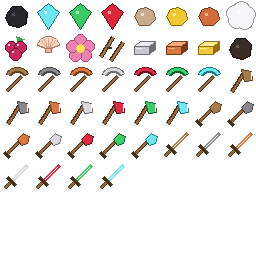
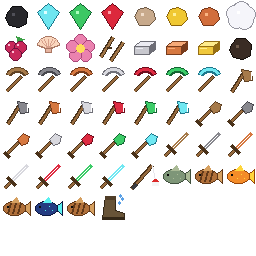
feat(fish): fishing rod, raw and cooked fish, the soggy boot
The rod is 3 sticks and 2 wool at a table and lasts 64 catches; usesOf()
gives the wear bar its uses for tools and the rod alike. Each raw fish
cooks into its cooked fish in the furnace.

Changed region(s): [[0.0, 0.75, 0.5, 0.875], [0.5312, 0.625, 1.0, 0.7188], [0.5, 0.7188, 0.5312, 0.75]]

diff --git a/tools/gen_item_placeholders.py b/tools/gen_item_placeholders.py
@@ -185,13 +185,68 @@ def sword(fill, dark):
 
 TOOLS = [make(*t) for make in (pickaxe, axe, shovel, sword) for t in TIERS]
 
+
+def fishing_rod():
+    img = Image.new("RGBA", (TILE, TILE), (0, 0, 0, 0))
+    d = ImageDraw.Draw(img)
+    handle(d, (4, 28), (24, 5))
+    d.line([(4, 28), (8, 24)], fill=(60, 60, 64, 255), width=4)  # grip
+    d.line([(24, 5), (27, 20)], fill=(230, 230, 236, 255))      # the line
+    d.ellipse([24, 19, 30, 25], fill=(220, 40, 40, 255))        # bobber
+    d.rectangle([24, 22, 30, 25], fill=(245, 245, 245, 255))
+    return img
+
+
+# Fish: a body, a tail and an eye, in the species' colours (body, dark, fin).
+# Cooked fish are the same shape, browned, with grill marks.
+FISH = [
+    ((126, 150, 120), (64, 80, 62), (170, 186, 150)),  # Pebblefish
+    ((244, 140, 40), (150, 70, 10), (255, 214, 60)),   # Sunfin
+    ((36, 60, 130), (14, 24, 64), (90, 240, 240)),     # Glowfin
+]
+COOKED = ((176, 112, 58), (96, 56, 24), (214, 160, 96))
+
+
+def fish(body, dark, fin, cooked=False):
+    def draw():
+        img = Image.new("RGBA", (TILE, TILE), (0, 0, 0, 0))
+        d = ImageDraw.Draw(img)
+        b, k, f = COOKED if cooked else (body, dark, fin)
+        d.polygon([(22, 16), (30, 9), (30, 23)], fill=f + (255,), outline=k + (255,))  # tail
+        d.ellipse([3, 9, 25, 23], fill=b + (255,), outline=k + (255,))
+        d.polygon([(11, 10), (16, 5), (19, 10)], fill=f + (255,))  # top fin
+        if cooked:
+            for x in (10, 15, 20):
+                d.line([(x, 11), (x - 3, 21)], fill=k + (255,), width=2)
+        else:
+            for x, y in [(13, 18), (17, 14), (20, 18)]:  # spots
+                d.point((x, y), fill=f + (255,))
+        d.rectangle([7, 14, 8, 15], fill=(10, 10, 10, 255))
+        return img
+    return draw
+
+
+def soggy_boot():
+    img = Image.new("RGBA", (TILE, TILE), (0, 0, 0, 0))
+    d = ImageDraw.Draw(img)
+    boot = [(9, 4), (19, 4), (19, 18), (28, 21), (28, 27), (6, 27), (7, 18)]
+    d.polygon(boot, fill=(104, 84, 56, 255), outline=(52, 40, 24, 255))
+    d.line([(6, 25), (28, 25)], fill=(52, 40, 24, 255), width=2)  # sole
+    d.rectangle([9, 4, 19, 7], fill=(80, 62, 40, 255))
+    for x, y in [(23, 10), (26, 6), (24, 3)]:  # drips
+        d.ellipse([x - 1, y - 1, x + 1, y + 2], fill=(90, 160, 230, 255))
+    return img
+
+
+FISHING = [fishing_rod] + [fish(*c, cooked=cooked) for c in FISH for cooked in (False, True)] + [soggy_boot]
+
 # Animal products, crafted and smelted items, after the shape-based
 # materials, in ItemId order.
 DRAWN = [wool, berries, shell, petals, sticks,
          ingot((200, 200, 206), (110, 110, 118), (236, 236, 242)),   # iron
          ingot((214, 120, 64), (120, 60, 28), (246, 170, 120)),     # copper
          ingot((240, 200, 60), (150, 110, 20), (255, 236, 140)),    # gold
-         charcoal] + TOOLS
+         charcoal] + TOOLS + FISHING
 
 
 def main():

diff --git a/tests/fish_test.cpp b/tests/fish_test.cpp
@@ -1,0 +1,59 @@
+#include "doctest/doctest.h"
+#include "item/item.hpp"
+#include "item/recipes.hpp"
+#include "item/smelting.hpp"
+#include "item/tools.hpp"
+
+// ─── Items ─────────────────────────────────────────────────────────────
+
+TEST_CASE("the fishing rod is one to a stack and lasts 64 catches") {
+  CHECK(itemDef(ItemId::FISHING_ROD).max_stack == 1);
+  CHECK(usesOf(ItemId::FISHING_ROD) == 64);
+  // Not a mining tool: hand speed, and it hits like a hand.
+  CHECK(toolOf(ItemId::FISHING_ROD).kind == ToolKind::None);
+  CHECK(attackDamage(ItemId::FISHING_ROD) == 1);
+}
+
+TEST_CASE("usesOf covers tools and nothing else") {
+  CHECK(usesOf(ItemId::DIAMOND_PICKAXE) == maxUses(Tier::Diamond));
+  CHECK(usesOf(ItemId::WOOD_SWORD) == maxUses(Tier::Wood));
+  CHECK(usesOf(ItemId::NONE) == 0);
+  CHECK(usesOf(ItemId::COAL) == 0);
+  CHECK(usesOf(ItemId::SOGGY_BOOT) == 0);
+}
+
+TEST_CASE("raw fish heal a little, cooked fish more, and the boot isn't food") {
+  CHECK(itemDef(ItemId::RAW_PEBBLEFISH).food_heal == 2);
+  CHECK(itemDef(ItemId::RAW_SUNFIN).food_heal == 2);
+  CHECK(itemDef(ItemId::RAW_GLOWFIN).food_heal == 2);
+  CHECK(itemDef(ItemId::COOKED_PEBBLEFISH).food_heal == 6);
+  CHECK(itemDef(ItemId::COOKED_SUNFIN).food_heal == 6);
+  CHECK(itemDef(ItemId::COOKED_GLOWFIN).food_heal == 8);
+  CHECK(itemDef(ItemId::SOGGY_BOOT).food_heal == 0);
+  CHECK(itemDef(ItemId::SOGGY_BOOT).max_stack == 1);
+}
+
+TEST_CASE("the rod is 3 sticks and 2 wool at a table") {
+  int found = 0;
+  for (const Recipe &r : recipes()) {
+    if (r.makes.id != ItemId::FISHING_ROD) continue;
+    ++found;
+    CHECK(r.needs_table);
+    CHECK(r.makes.count == 1);
+    REQUIRE(r.needs.size() == 2);
+    CHECK(r.needs[0].any_of == std::vector<ItemId>{ItemId::STICKS});
+    CHECK(r.needs[0].count == 3);
+    CHECK(r.needs[1].any_of == std::vector<ItemId>{ItemId::WOOL});
+    CHECK(r.needs[1].count == 2);
+  }
+  CHECK(found == 1);
+}
+
+TEST_CASE("each raw fish cooks into its cooked fish, and cooked fish don't cook again") {
+  CHECK(smeltResult(ItemId::RAW_PEBBLEFISH) == ItemId::COOKED_PEBBLEFISH);
+  CHECK(smeltResult(ItemId::RAW_SUNFIN) == ItemId::COOKED_SUNFIN);
+  CHECK(smeltResult(ItemId::RAW_GLOWFIN) == ItemId::COOKED_GLOWFIN);
+  for (ItemId id : {ItemId::COOKED_PEBBLEFISH, ItemId::COOKED_SUNFIN, ItemId::COOKED_GLOWFIN,
+                    ItemId::SOGGY_BOOT, ItemId::FISHING_ROD})
+    CHECK_FALSE(smeltResult(id));
+}

diff --git a/tests/item_test.cpp b/tests/item_test.cpp
@@ -45,7 +45,7 @@ TEST_CASE("every placeable block has an item that places it") {
 
 TEST_CASE("the material items are defined with unique item-atlas tiles") {
   auto mats = materials();
-  CHECK(mats.size() == 44);
+  CHECK(mats.size() == 52);
 
   std::set<std::pair<int, int>> tiles;
   for (ItemId id : mats) {
@@ -54,7 +54,8 @@ TEST_CASE("the material items are defined with unique item-atlas tiles") {
     CAPTURE(def.name);
     CHECK(!def.name.empty());
     CHECK(def.name != "Unknown");
-    CHECK(def.max_stack == (toolOf(id).kind == ToolKind::None ? 64 : 1));
+    bool single = usesOf(id) > 0 || id == ItemId::SOGGY_BOOT;
+    CHECK(def.max_stack == (single ? 1 : 64));
     CHECK_FALSE(def.places.has_value());
     CHECK(def.icon.atlas == ItemIcon::Atlas::Item);
     CHECK(def.icon.tile.x >= 0);
@@ -77,6 +78,10 @@ TEST_CASE("material item ids are stable") {
   CHECK(static_cast<uint16_t>(ItemId::STICKS) == 267);
   CHECK(static_cast<uint16_t>(ItemId::IRON_INGOT) == 268);
   CHECK(static_cast<uint16_t>(ItemId::CHARCOAL) == 271);
+  CHECK(static_cast<uint16_t>(ItemId::DIAMOND_SWORD) == 299);
+  CHECK(static_cast<uint16_t>(ItemId::FISHING_ROD) == 300);
+  CHECK(static_cast<uint16_t>(ItemId::COOKED_GLOWFIN) == 306);
+  CHECK(static_cast<uint16_t>(ItemId::SOGGY_BOOT) == 307);
 }
 
 TEST_CASE("isValidItem rejects the empty item, water and unknown ids") {
@@ -203,12 +208,13 @@ TEST_CASE("split takes up to n") {
   CHECK(split(empty, 5) == ItemStack{});
 }
 
-TEST_CASE("berries and sweet petals are the only food") {
+TEST_CASE("berries, sweet petals and fish are the only food") {
   CHECK(itemDef(ItemId::BERRIES).food_heal == 4);
   CHECK(itemDef(ItemId::SWEET_PETALS).food_heal == 6);
   for (uint16_t v = 1; v <= static_cast<uint16_t>(kLastMaterialItem); ++v) {
     ItemId id = static_cast<ItemId>(v);
     if (!isValidItem(id) || id == ItemId::BERRIES || id == ItemId::SWEET_PETALS) continue;
+    if (id >= ItemId::RAW_PEBBLEFISH && id <= ItemId::COOKED_GLOWFIN) continue;
     CAPTURE(itemDef(id).name);
     CHECK(itemDef(id).food_heal == 0);
   }

diff --git a/src/ui/hud.cpp b/src/ui/hud.cpp
@@ -100,9 +100,9 @@ void Hud::drawSlot(ImDrawList *dl, const Rect &r, const ItemStack &s,
     drawIcon(dl, r, s.id, alpha);
     drawCount(dl, r, s.count, alpha);
     // A worn tool: a bar along the bottom, shrinking from green to red.
-    Tool tool = toolOf(s.id);
-    if (tool.kind != ToolKind::None && s.wear > 0) {
-      float left = 1.0f - static_cast<float>(s.wear) / maxUses(tool.tier);
+    int uses = usesOf(s.id);
+    if (uses > 0 && s.wear > 0) {
+      float left = 1.0f - static_cast<float>(s.wear) / uses;
       float h = std::max(2.0f, std::round(r.h * 0.07f));
       ImVec2 a0(r.x + r.w * 0.12f, r.bottom() - h - r.h * 0.06f);
       float full = r.w * 0.76f;

diff --git a/inc/item/item.hpp b/inc/item/item.hpp
@@ -57,11 +57,19 @@ enum class ItemId : uint16_t {
   RUBY_SWORD,
   EMERALD_SWORD,
   DIAMOND_SWORD,
+  FISHING_ROD,       // fishing
+  RAW_PEBBLEFISH,
+  COOKED_PEBBLEFISH,
+  RAW_SUNFIN,
+  COOKED_SUNFIN,
+  RAW_GLOWFIN,
+  COOKED_GLOWFIN,
+  SOGGY_BOOT,
   // Append only: the numeric value is persisted in inventory saves.
 };
 
 constexpr ItemId kFirstMaterialItem = ItemId::COAL;
-constexpr ItemId kLastMaterialItem = ItemId::DIAMOND_SWORD;
+constexpr ItemId kLastMaterialItem = ItemId::SOGGY_BOOT;
 
 struct ItemIcon {
   enum class Atlas : uint8_t { Block, Item };

diff --git a/src/item/smelting.cpp b/src/item/smelting.cpp
@@ -32,6 +32,9 @@ std::optional<ItemId> smeltResult(ItemId in) {
     case ItemId::RAW_IRON:   return ItemId::IRON_INGOT;
     case ItemId::RAW_COPPER: return ItemId::COPPER_INGOT;
     case ItemId::RAW_GOLD:   return ItemId::GOLD_INGOT;
+    case ItemId::RAW_PEBBLEFISH: return ItemId::COOKED_PEBBLEFISH;
+    case ItemId::RAW_SUNFIN:     return ItemId::COOKED_SUNFIN;
+    case ItemId::RAW_GLOWFIN:    return ItemId::COOKED_GLOWFIN;
     default: break;
   }
   if (in == block(BlockType::SAND)) return block(BlockType::GLASS);

diff --git a/src/item/item.cpp b/src/item/item.cpp
@@ -50,6 +50,15 @@ constexpr std::array<Material, kMaterialCount> kMaterials = {{
     {"Ruby Sword", 0, 1},
     {"Emerald Sword", 0, 1},
     {"Diamond Sword", 0, 1},
+    // Fishing: the rod wears like a tool; the boot is a joke catch.
+    {"Fishing Rod", 0, 1},
+    {"Raw Pebblefish", 2},
+    {"Cooked Pebblefish", 6},
+    {"Raw Sunfin", 2},
+    {"Cooked Sunfin", 6},
+    {"Raw Glowfin", 2},
+    {"Cooked Glowfin", 8},
+    {"Soggy Boot", 0, 1},
 }};
 constexpr int kItemAtlasCols = 8;
 

diff --git a/src/item/recipes.cpp b/src/item/recipes.cpp
@@ -73,6 +73,8 @@ const std::vector<Recipe> &recipes() {
       for (const auto &[tier, material] : materials)
         list.push_back(atTable({toolItem(shape.kind, tier), 1},
                                {{material, shape.head}, {{ItemId::STICKS}, shape.sticks}}));
+    list.push_back(atTable({ItemId::FISHING_ROD, 1},
+                           {{{ItemId::STICKS}, 3}, {{ItemId::WOOL}, 2}}));
     return list;
   }();
   return all;

diff --git a/inc/item/tools.hpp b/inc/item/tools.hpp
@@ -22,6 +22,9 @@ ItemId toolItem(ToolKind kind, Tier tier);
 
 int miningSpeed(Tier tier); // how many times faster than a bare hand
 int maxUses(Tier tier);     // before it breaks
+// Uses before this item breaks: a tool's tier uses, the fishing rod's, or 0
+// for anything that doesn't wear.
+int usesOf(ItemId id);
 int swordDamage(Tier tier); // hand: 1
 
 // Damage a hit does with this held (or NONE): swords their tier's damage,

diff --git a/src/item/tools.cpp b/src/item/tools.cpp
@@ -35,6 +35,12 @@ int maxUses(Tier tier) {
   return uses[static_cast<int>(tier)];
 }
 
+int usesOf(ItemId id) {
+  if (id == ItemId::FISHING_ROD) return 64;
+  Tool t = toolOf(id);
+  return t.kind == ToolKind::None ? 0 : maxUses(t.tier);
+}
+
 int swordDamage(Tier tier) {
   constexpr std::array<int, 8> damage = {1, 3, 4, 5, 6, 7, 7, 8};
   return damage[static_cast<int>(tier)];
